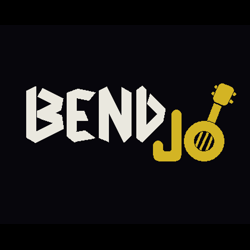
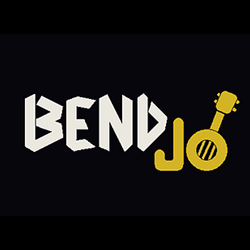
Fix Yume Nikki image, add Bend Jo image, release Bend Jo
Replace Yume Nikki thumbnail with the correct 250x250 image, use the
provided Bend Jo cover art, and move Bend Jo from pending into the
released games list.

Changed region(s): [[0.084, 0.336, 0.98, 0.7]]

diff --git a/index.html b/index.html
@@ -3521,11 +3521,11 @@ body.ui-hidden .top-bar > .tb-actions > *:not(.hide-ui-btn) *::after{
       <hr style="border:1px solid var(--border-light);margin:16px 0">
       <p style="font-weight:500">Latest updates:</p>
       <ul style="margin:8px 0 12px 20px;opacity:.85;line-height:1.7">
-        <li>Added <b>88</b> new games</li>
+        <li>Added <b>89</b> new games</li>
       </ul>
       <p style="font-weight:500">History:</p>
       <ul style="margin:8px 0 0 20px;opacity:.85;line-height:1.7">
-        <li>Added in total <b>221</b> interactive demos</li>
+        <li>Added in total <b>222</b> interactive demos</li>
         </ul>
     </div>
       </div>
@@ -3970,6 +3970,7 @@ var _D1=[
   {n:_('QmFza2V0IEJhdHRsZQ=='),img:_("YmFza2V0LWJhdHRsZQ=="),url:_("aHR0cHM6Ly9nbi1tYXRoLmRldi8/aWQ9MjU="),tags:["touch","sports","multiplayer","single-player","offline"],wo:true},
   {n:_('QmFza2V0IFJhbmRvbQ=='),img:_("YmFza2V0LXJhbmRvbQ=="),url:_("L3EvZy9iYXNrZXQtcmFuZG9tLw=="),tags:["sports","multiplayer","single-player","offline"]},
   {n:_('QmF6b29rYSBCb3k='),img:_("YmF6b29rYS1ib3k="),url:_("aHR0cHM6Ly9nbi1tYXRoLmRldi8/aWQ9Mjk="),tags:["touch","puzzle","arcade","single-player","offline"],wo:true},
+  {n:_('QmVuZCBKbw=='),img:_("YmVuZC1pbw=="),url:_("aHR0cHM6Ly9wZXJmZWN0bmlwLmdpdGh1Yi5pby9iZW5kLWlvLw=="),tags:["puzzle","single-player","offline"]},
   {n:_('Qml0cGxhbmVz'),img:_("Yml0cGxhbmVz"),url:_("L3EvZy9iaXRwbGFuZXMv"),tags:[]},
   {n:_('Qmx1ZSBDaGFzbQ=='),img:_("Ymx1ZWNoYXNt"),url:_("L3EvZy9ibHVlY2hhc20v"),tags:["featured"]},
   {n:_('Qm9tYiBQYXNz'),img:_("Ym9tYi1wYXNz"),url:_("L3EvZy9ib21iLXBhc3Mv"),tags:["jqrg","arcade","multiplayer","single-player","offline"]},
@@ -4145,7 +4146,6 @@ var _D2=[
   {n:_('U2hlbGwgU2hvY2tlcg=='),img:_("c2hlbGwtc2hvY2tlcg=="),url:_("L3EvZy9zaGVsbC1zaG9ja2VyLw==")},
   {n:_('V29ybGQncyBNb3N0IENvbmZ1c2luZyBCdXR0b24gR2FtZQ=='),img:_("d21jYmc="),url:_("L3dtY2JnLw==")},
   {n:_('U3RpY2ttYW4gUmViaXJ0aA=='),img:_("c3RpY2ttYW4tcmViaXJ0aA=="),url:_("L3EvZy9zdGlja21hbi1yZWJpcnRoLw==")},
-  {n:_('QmVuZCBKbw=='),img:_("YmVuZC1pbw=="),url:_("aHR0cHM6Ly9wZXJmZWN0bmlwLmdpdGh1Yi5pby9iZW5kLWlvLw==")},
 ];
 var _D3=[
   {n:_('VGlrVG9r'),img:_("dGlrdG9r"),url:_("dGlrdG9rLmNvbQ=="),proxy:true,raw:true},
